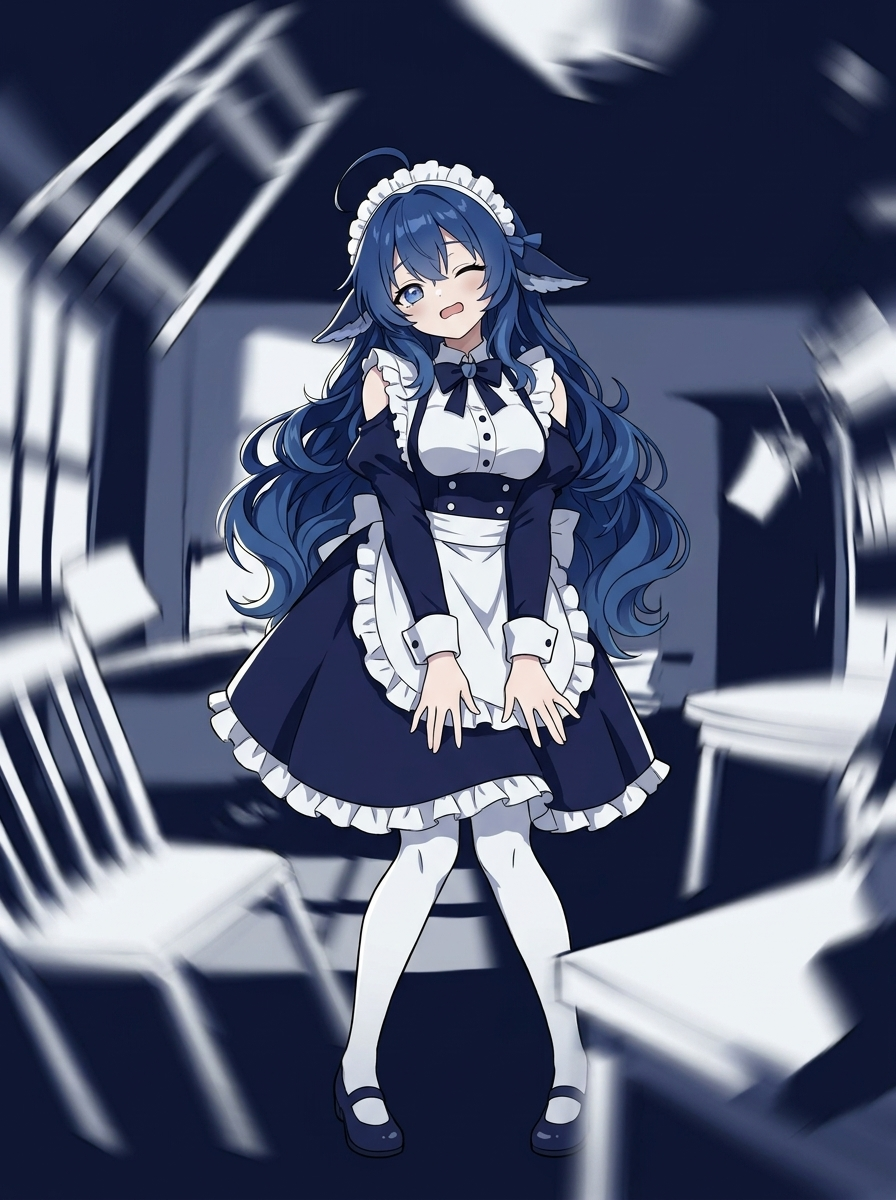
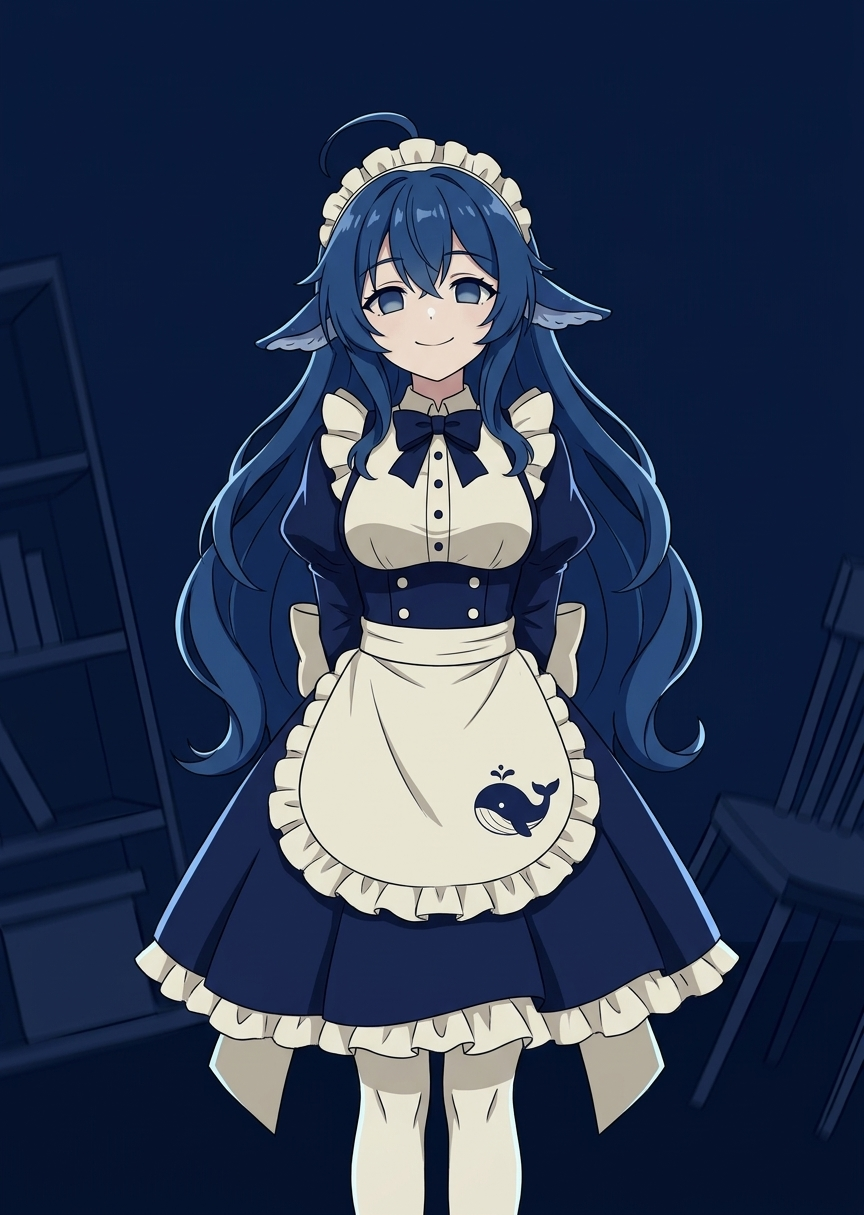
cinematic full-bleed plates, gated legacy decor, restored plates

diff --git a/src/core/photo.js b/src/core/photo.js
@@ -45,14 +45,14 @@ export function photoStageSurface(w, h, name, o = {}) {
     const q = 4;
     const sw = Math.max(4, Math.round(bw / q)), sh = Math.max(4, Math.round(bh / q));
     const small = img.scaled(sw, sh);
-    small.blur(Math.max(2, Math.round(Math.min(w, h) * 0.035 / q)));
+    small.blur(Math.max(3, Math.round(Math.min(w, h) * 0.075 / q)));
     bg = small.scaled(bw, bh);
   } else {
     bg = img.scaled(bw, bh);
   }
   const full = new Surface(w, h);
   full.composite(bg, Math.round((w - bw) / 2), Math.round((h - bh) / 2), 1, 'over');
-  full.rect(0, 0, w, h, C('paper'), o.dim ?? 0.55);
+  full.rect(0, 0, w, h, C('paper'), o.dim ?? 0.72);
   if (stageCache.size > 8) stageCache.clear();
   stageCache.set(key, full);
   return full;
@@ -86,12 +86,19 @@ export function photoPlate(surf, name, o = {}) {
   const img = photoSurface(name);
   if (!img) return false;
   const W = surf.w, H = surf.h;
-  const h = (o.h ?? 0.88) * H;
+  const h = (o.h ?? 0.98) * H;
   const w = h * img.w / img.h;
   const x = Math.round((o.x ?? 0.5) * W - w / 2);
   const y = Math.round((o.y ?? 0.5) * H - h / 2);
+  // 左右暗场：让竖构图读起来像电影画幅里的主体，而不是贴上去的小图
+  const side = Math.max(40, Math.round((W - w) / 2));
+  for (let i = 0; i < side; i += 2) {
+    const a = 0.5 * (1 - i / side) ** 0.7;
+    surf.rect(x - i, 0, 2, H, C('paper'), { alpha: a });
+    surf.rect(x + w + i, 0, 2, H, C('paper'), { alpha: a });
+  }
   // 投影
-  surf.rect(x + 10, y + 12, w, h, [0, 0, 0], { alpha: 0.45 });
+  surf.rect(x + 8, y + 10, w, h, [0, 0, 0], { alpha: 0.35 });
   const pk = `${name}|${Math.round(w)}x${Math.round(h)}`;
   let s = plateCache.get(pk);
   if (!s) {
@@ -100,14 +107,12 @@ export function photoPlate(surf, name, o = {}) {
     plateCache.set(pk, s);
   }
   surf.composite(s, x, y, 1, 'over');
-  // 边框（印刷品的白边）
-  surf.stroke([[x, y], [x + w, y], [x + w, y + h], [x, y + h], [x, y]], Math.max(1, Math.round(H / 720)), C('you'), { alpha: 0.5 });
   if (o.registration !== false) {
     // 裁切标记
     const u = Math.max(1, Math.round(H / 1080));
     for (const [cx, cy, sx, sy] of [[x, y, 1, 1], [x + w, y, -1, 1], [x, y + h, 1, -1], [x + w, y + h, -1, -1]]) {
-      surf.rect(cx, cy, sx * 26 * u, 2 * u, C('you'), { alpha: 0.55 });
-      surf.rect(cx, cy, 2 * u, sy * 26 * u, C('you'), { alpha: 0.55 });
+      surf.rect(cx, cy, sx * 20 * u, 1.6 * u, C('you'), { alpha: 0.32 });
+      surf.rect(cx, cy, 1.6 * u, sy * 20 * u, C('you'), { alpha: 0.32 });
     }
   }
   return true;
@@ -169,12 +174,12 @@ export function halftoneDots(surf, alpha = 0.13, step = null) {
 export function plateBase(surf, ctx, t, name, o = {}) {
   if (!name || !hasPhoto(name)) return false;
   const W = surf.w, H = surf.h;
-  photoStage(surf, name, { dim: o.stageDim ?? 0.78, blur: o.blur !== false });
-  tintPhoto(surf, { dim: o.stageDim2 ?? 0.5, cool: o.cool ?? 0.42, contrast: o.contrast ?? 1.0 });
+  photoStage(surf, name, { dim: o.stageDim ?? 0.84, blur: o.blur !== false });
+  tintPhoto(surf, { dim: o.stageDim2 ?? 0.34, cool: o.cool ?? 0.4, contrast: o.contrast ?? 0.96 });
   // 印刷肌理：网点（整片写入，避免逐点走 fillPath）
-  halftoneDots(surf, o.dotAlpha ?? 0.13);
+  halftoneDots(surf, o.dotAlpha ?? 0.055);
   if (o.plate !== false) {
-    photoPlate(surf, name, { h: o.h ?? 0.9, x: o.x ?? 0.68, y: o.y ?? 0.5, registration: o.registration !== false });
+    photoPlate(surf, name, { h: o.h ?? 0.98, x: o.x ?? 0.5, y: o.y ?? 0.5, registration: o.registration === true });
   }
   if (o.proof) proofMarks(surf, o.proof);
   return true;

diff --git a/src/scenes/12_chorusx.js b/src/scenes/12_chorusx.js
@@ -10,7 +10,7 @@ import { asciiSphere, asciiBurst, asciiScroll } from '../core/ascii.js';
 import { wireSphere, heartCurve, roundRect } from '../core/geom.js';
 import { cue } from './cues.js';
 import { lineAt, wordsWithTimes, text } from './texts.js';
-import { base, figOrSkip } from '../core/photo.js';
+import { base, figOrSkip, hasPhoto } from '../core/photo.js';
 
 export const id = 'chorusx';
 export const start = 162.81;
@@ -48,14 +48,14 @@ function figMask(ctx, name, w, flipX = false) {
 function layers(surf, ctx, t, o = {}) {
   const s = ctx.s, W = ctx.w, H = ctx.h;
   base(surf, ctx, t, o.photo || '20_disheart', { noise: 6, proof: { sheet: '09/12' }, h: o.ph ?? 0.9, x: o.px ?? 0.66 });
-  // 1. 身后的日芒：缓慢旋转，长度随低频呼吸
+  // 1. 身后的日芒：缓慢旋转，长度随低频呼吸（有插画时不画，免得和插画打架）
   const breath = 0.5 + 0.5 * Math.sin(t * 1.1);
   const cx = W * (o.sunX ?? 0.5), cy = H * (o.sunY ?? 0.46);
-  rays(surf, {
+  if (!hasPhoto(o.photo)) rays(surf, {
     cx, cy, n: 30, r0: W * 0.04, r1: W * (0.52 + 0.06 * breath),
     rot: t * 0.055, width: (4 + 3 * breath) * s, color: C('meDim'), alpha: 0.24,
   });
-  rays(surf, {
+  if (!hasPhoto(o.photo)) rays(surf, {
     cx, cy, n: 16, r0: W * 0.1, r1: W * (0.34 + 0.05 * breath),
     rot: -t * 0.04, width: (8 + 4 * breath) * s, color: C('me'), alpha: 0.15,
   });
@@ -63,11 +63,11 @@ function layers(surf, ctx, t, o = {}) {
   // 2. 远景：字符球 + 线框（暗一级的蓝）
   const r = W * (o.sphereR ?? 0.19);
   const sphX = W * (o.sphereX ?? 0.5), sphY = H * (o.sphereY ?? 0.42);
-  asciiSphere(surf, {
+  if (!hasPhoto(o.photo)) asciiSphere(surf, {
     cx: sphX, cy: sphY, r, rot: t * 0.5, tilt: 0.32, n: 170,
     font: ctx.fonts.mono, size: 13 * s, color: mix(C('meDim'), C('me'), 0.35), alpha: 0.5, seed: 11,
   });
-  const lines = wireSphere(sphX, sphY, r * 1.06, t * 0.22, 0.32, 8, 5);
+  const lines = hasPhoto(o.photo) ? [] : wireSphere(sphX, sphY, r * 1.06, t * 0.22, 0.32, 8, 5);
   const wirePolys = [];
   for (const ln of lines) {
     for (let i = 0; i + 1 < ln.length; i++) {
@@ -244,7 +244,7 @@ function shotBust(surf, ctx, t) {
   const fx = W / 2 - w * 0.155, fy = fy0 + w * 1.4 * 0.19, fw = w * 0.31, fh = w * 1.4 * 0.27;
   innerScreen(surf, ctx, t, mask, fx, fy, fw, fh);
   // 头后的球与线框：像一圈光环
-  asciiSphere(surf, {
+  if (!hasPhoto('15_exist')) asciiSphere(surf, {
     cx: W / 2, cy: H * 0.22, r: W * 0.17, rot: t * 0.6, tilt: 0.3, n: 150,
     font: ctx.fonts.mono, size: 13 * s, color: C('me'), alpha: 0.55, seed: 5,
   });
@@ -274,7 +274,7 @@ function shotHand(surf, ctx, t) {
   });
   // 身后的球开始散开
   const spread = clamp((t - 170.19) / 2.2, 0, 1);
-  asciiSphere(surf, {
+  if (!hasPhoto('22_love')) asciiSphere(surf, {
     cx: W * 0.38, cy: H * 0.36, r: W * (0.2 + 0.1 * spread), rot: t * 0.7, tilt: 0.3,
     n: 190, font: ctx.fonts.mono, size: 13 * s, color: C('me'), alpha: 0.5 * (1 - spread * 0.5), seed: 9,
   });

diff --git a/src/scenes/05_chorus.js b/src/scenes/05_chorus.js
@@ -1,5 +1,5 @@
 // 05_chorus.js — 副歌一 59.42–74.19（四张关键词版画 + 句子镜头）
-import { base, figOrSkip } from '../core/photo.js';
+import { base, figOrSkip, hasPhoto } from '../core/photo.js';
 import { C, mix, ground, drawFigure, plateFigure, drawText, drawTextHollow, textWidth, glowDisc, bigCursor } from '../core/art.js';
 import { clamp, lerp, ease } from '../core/raster.js';
 import { rays, bloom, flash, glitch, bars, grid } from '../core/kit.js';
@@ -43,7 +43,7 @@ function caption(surf, ctx, t) {
 function stim(surf, ctx, t) {
   const s = ctx.s, W = ctx.w, H = ctx.h;
   base(surf, ctx, t, '07_stim', { noise: 5, proof: { sheet: '03/12' } });
-  rays(surf, { cx: W * 0.5, cy: H * 0.5, n: 26, r0: 40 * s, r1: W * 0.62, rot: t * 0.1, width: 3.4 * s, color: C('meDim'), alpha: 0.16 });
+  if (!hasPhoto('07_stim')) rays(surf, { cx: W * 0.5, cy: H * 0.5, n: 26, r0: 40 * s, r1: W * 0.62, rot: t * 0.1, width: 3.4 * s, color: C('meDim'), alpha: 0.16 });
   const hitAt = cue('chorus1.stim.hit');
   const hit = t >= hitAt ? Math.exp(-(t - hitAt) * 7) : 0;
   const appear = clamp((t - hitAt) / 0.12, 0, 1);

diff --git a/src/scenes/07_pre2.js b/src/scenes/07_pre2.js
@@ -1,6 +1,6 @@
 // 07_pre2.js — 导歌二 88.96–103.73（控件放大到她身上）
 // 踩点：90.80 B(49) F / 91.72 Bt(198) M / 98.19 B(53) S / 99.10 Bt(214) M
-import { base, figOrSkip } from '../core/photo.js';
+import { base, figOrSkip, hasPhoto } from '../core/photo.js';
 import { C, mix, ground, drawFigure, plateFigure, drawText, drawTextHollow, textWidth, bigCursor, glowDisc } from '../core/art.js';
 import { clamp, lerp, ease, circlePoly } from '../core/raster.js';
 import { rays, bloom, B, flash } from '../core/kit.js';
@@ -126,8 +126,8 @@ function plateGender(ctx, surf, t) {
   const tD2 = cue('pre2.gender.d2');
   const boy = t >= tL2;
 
-  // 背后的日芒
-  sunburstPlate(surf, ctx, W * 0.5, H * 0.52, W * 0.62, t * 0.05, 1);
+  // 背后的日芒（有插画时不画）
+  if (!hasPhoto('16_gender')) sunburstPlate(surf, ctx, W * 0.5, H * 0.52, W * 0.62, t * 0.05, 1);
 
   // 人物：f_bust -> boy_bust（匹配剪辑，同构图）
   const figW = 740 * s;

diff --git a/tools/banana_batch3.py b/tools/banana_batch3.py
@@ -1,0 +1,97 @@
+#!/usr/bin/env python3
+# 重画被视觉评审判废/勉强的图：加强硬约束，避免文字残留、白底、双人、手画错
+import json, os, subprocess, sys, time, urllib.request
+
+HOME = os.path.expanduser('~')
+REF = f'{HOME}/tmp/wem/ref.jpg'
+ROOT = os.path.dirname(os.path.dirname(os.path.abspath(__file__)))
+OUT = os.path.join(ROOT, 'art/hero')
+GEN = f'{HOME}/free-image-gen/scripts/webbanana.py'
+V2 = f'{HOME}/money/v2sub'
+PROXY = 'http://127.0.0.1:2347'  # 钉死 Datacamp-NYC 出口
+
+KEEP = ("keep this character exactly — same face, same eyes, same deep blue long hair, "
+        "same whale-fin shaped ears, same navy blue maid dress with white apron and whale logo, "
+        "same whale tail. ")
+HARD = (" Hard rules: exactly one character in frame, no mirror and no reflection and no second person. "
+        "Solid dark navy background, absolutely no white or bright background. "
+        "No text, no letters, no numbers, no symbols, no captions, no watermark, no signature, no interface. "
+        "Both hands relaxed and simple, or hidden behind her back — no complicated hand poses, no extra fingers. "
+        "Medium shot, the character fills about 80% of the frame height, centred. ")
+
+SCENES = [
+    ("01_boot",     "She stands quietly in a dark empty room, a few thin blue light lines floating near her, eyes closed."),
+    ("03_geometry", "Flat paper shapes of a point, a circle and a sine wave float around her at chest height."),
+    ("05_dizzy",    "Her body stays still while the dark room tilts around her, faint motion smear, eyes unfocused."),
+    ("06_travel",   "She walks forward through dark space; behind her, large flat silhouettes of historic buildings recede into fog."),
+    ("07_stim",     "A thin bolt of electric blue light passes well in front of her chest, her face fully visible and lit."),
+    ("09_exec",     "Thin blue lines of falling light stream down behind her, like rain made of light, no glyph shapes."),
+    ("10_sim",      "She stands alone in a dark room whose walls recede into several nested rectangles behind her."),
+    ("12_tomato",   "She holds one large deep red tomato at her waist with both hands, the tomato is small relative to her body."),
+    ("14_god",      "A huge dark blue sunburst halo opens behind her head, her face slightly lit from the front."),
+    ("16_gender",   "She stands alone facing the camera, one thin flat vertical light panel beside her, no mirror, no reflection."),
+    ("17_role",     "She stands beside a tall dark vertical slider rail, her hand resting on the rail handle, simple hands."),
+    ("20_disheart", "Close medium shot of her face and shoulders in a dark room, eyes open looking at the camera, calm."),
+    ("21_error",    "She stands alone in a dark room with a single thin red light line crossing the far wall."),
+    ("23_final",    "She stands in a dark room lit from above by one soft white light, both arms relaxed at her sides."),
+]
+
+def exit_cc():
+    try:
+        r = urllib.request.build_opener(urllib.request.ProxyHandler({'http': PROXY, 'https': PROXY}))
+        with r.open('http://ip-api.com/json?fields=countryCode', timeout=12) as f:
+            return json.load(f).get('countryCode')
+    except Exception:
+        return None
+
+def restart_chain():
+    # 重启 :2347（datacamp_egress.json = 米兰中转 -> Datacamp-NYC）
+    subprocess.Popen(['pkill', '-f', 'datacamp_egress.json'], capture_output=True)
+    time.sleep(2)
+    subprocess.Popen(['sing-box', 'run', '-c', 'datacamp_egress.json'], cwd=V2,
+                     stdout=open(os.path.join(V2, 'datacamp.log'), 'a'),
+                     stderr=subprocess.STDOUT, start_new_session=True)
+    time.sleep(7)
+
+def ensure_us():
+    for i in range(8):
+        if exit_cc() in ('US', 'CA'):
+            return True
+        print('  restart chain', i + 1, flush=True)
+        restart_chain(); time.sleep(8)
+    return False
+
+def main():
+    for sid, scene in SCENES:
+        out = os.path.join(OUT, sid + '.jpg')
+        old_dir = os.path.join(ROOT, 'art/hero_old')
+        os.makedirs(old_dir, exist_ok=True)
+        if os.path.exists(out):
+            os.replace(out, os.path.join(old_dir, sid + '.jpg'))  # 先移走旧图，避免误判
+        prompt = KEEP + scene + " Style: anime film still, cel shading, deep navy and white colour palette, cinematic rim light, clean linework, high detail." + HARD
+        ok = False
+        for attempt in range(4):
+            # 出口已钉死在 :2347（Datacamp-NYC），这里只做一次轻探测，不再来回重启代理
+            if attempt == 0:
+                cc = exit_cc()
+                print('  exit:', cc, flush=True)
+                if cc not in ('US', 'CA') and not ensure_us():
+                    print('no US exit, continue anyway', flush=True)
+            r = subprocess.run(['python3', GEN, out, prompt, 'pro', '--ref', REF, '--camo', 'none'],
+                               env={**os.environ, 'GEMINI_PROXY': PROXY},
+                               capture_output=True, text=True, timeout=420)
+            if os.path.exists(out) and os.path.getsize(out) > 20000:
+                print('ok', sid, os.path.getsize(out), flush=True); ok = True; break
+            tail = (r.stdout + r.stderr).strip().split('\n')[-1][:140]
+            print('retry', sid, attempt, tail, flush=True)
+            if 'LOCATION_REJECTED' in (r.stdout + r.stderr):
+                restart_chain(); time.sleep(10)
+            else:
+                time.sleep(5)
+        if not ok:
+            print('FAIL', sid, flush=True)
+        time.sleep(1)
+    return 0
+
+if __name__ == '__main__':
+    sys.exit(main())
